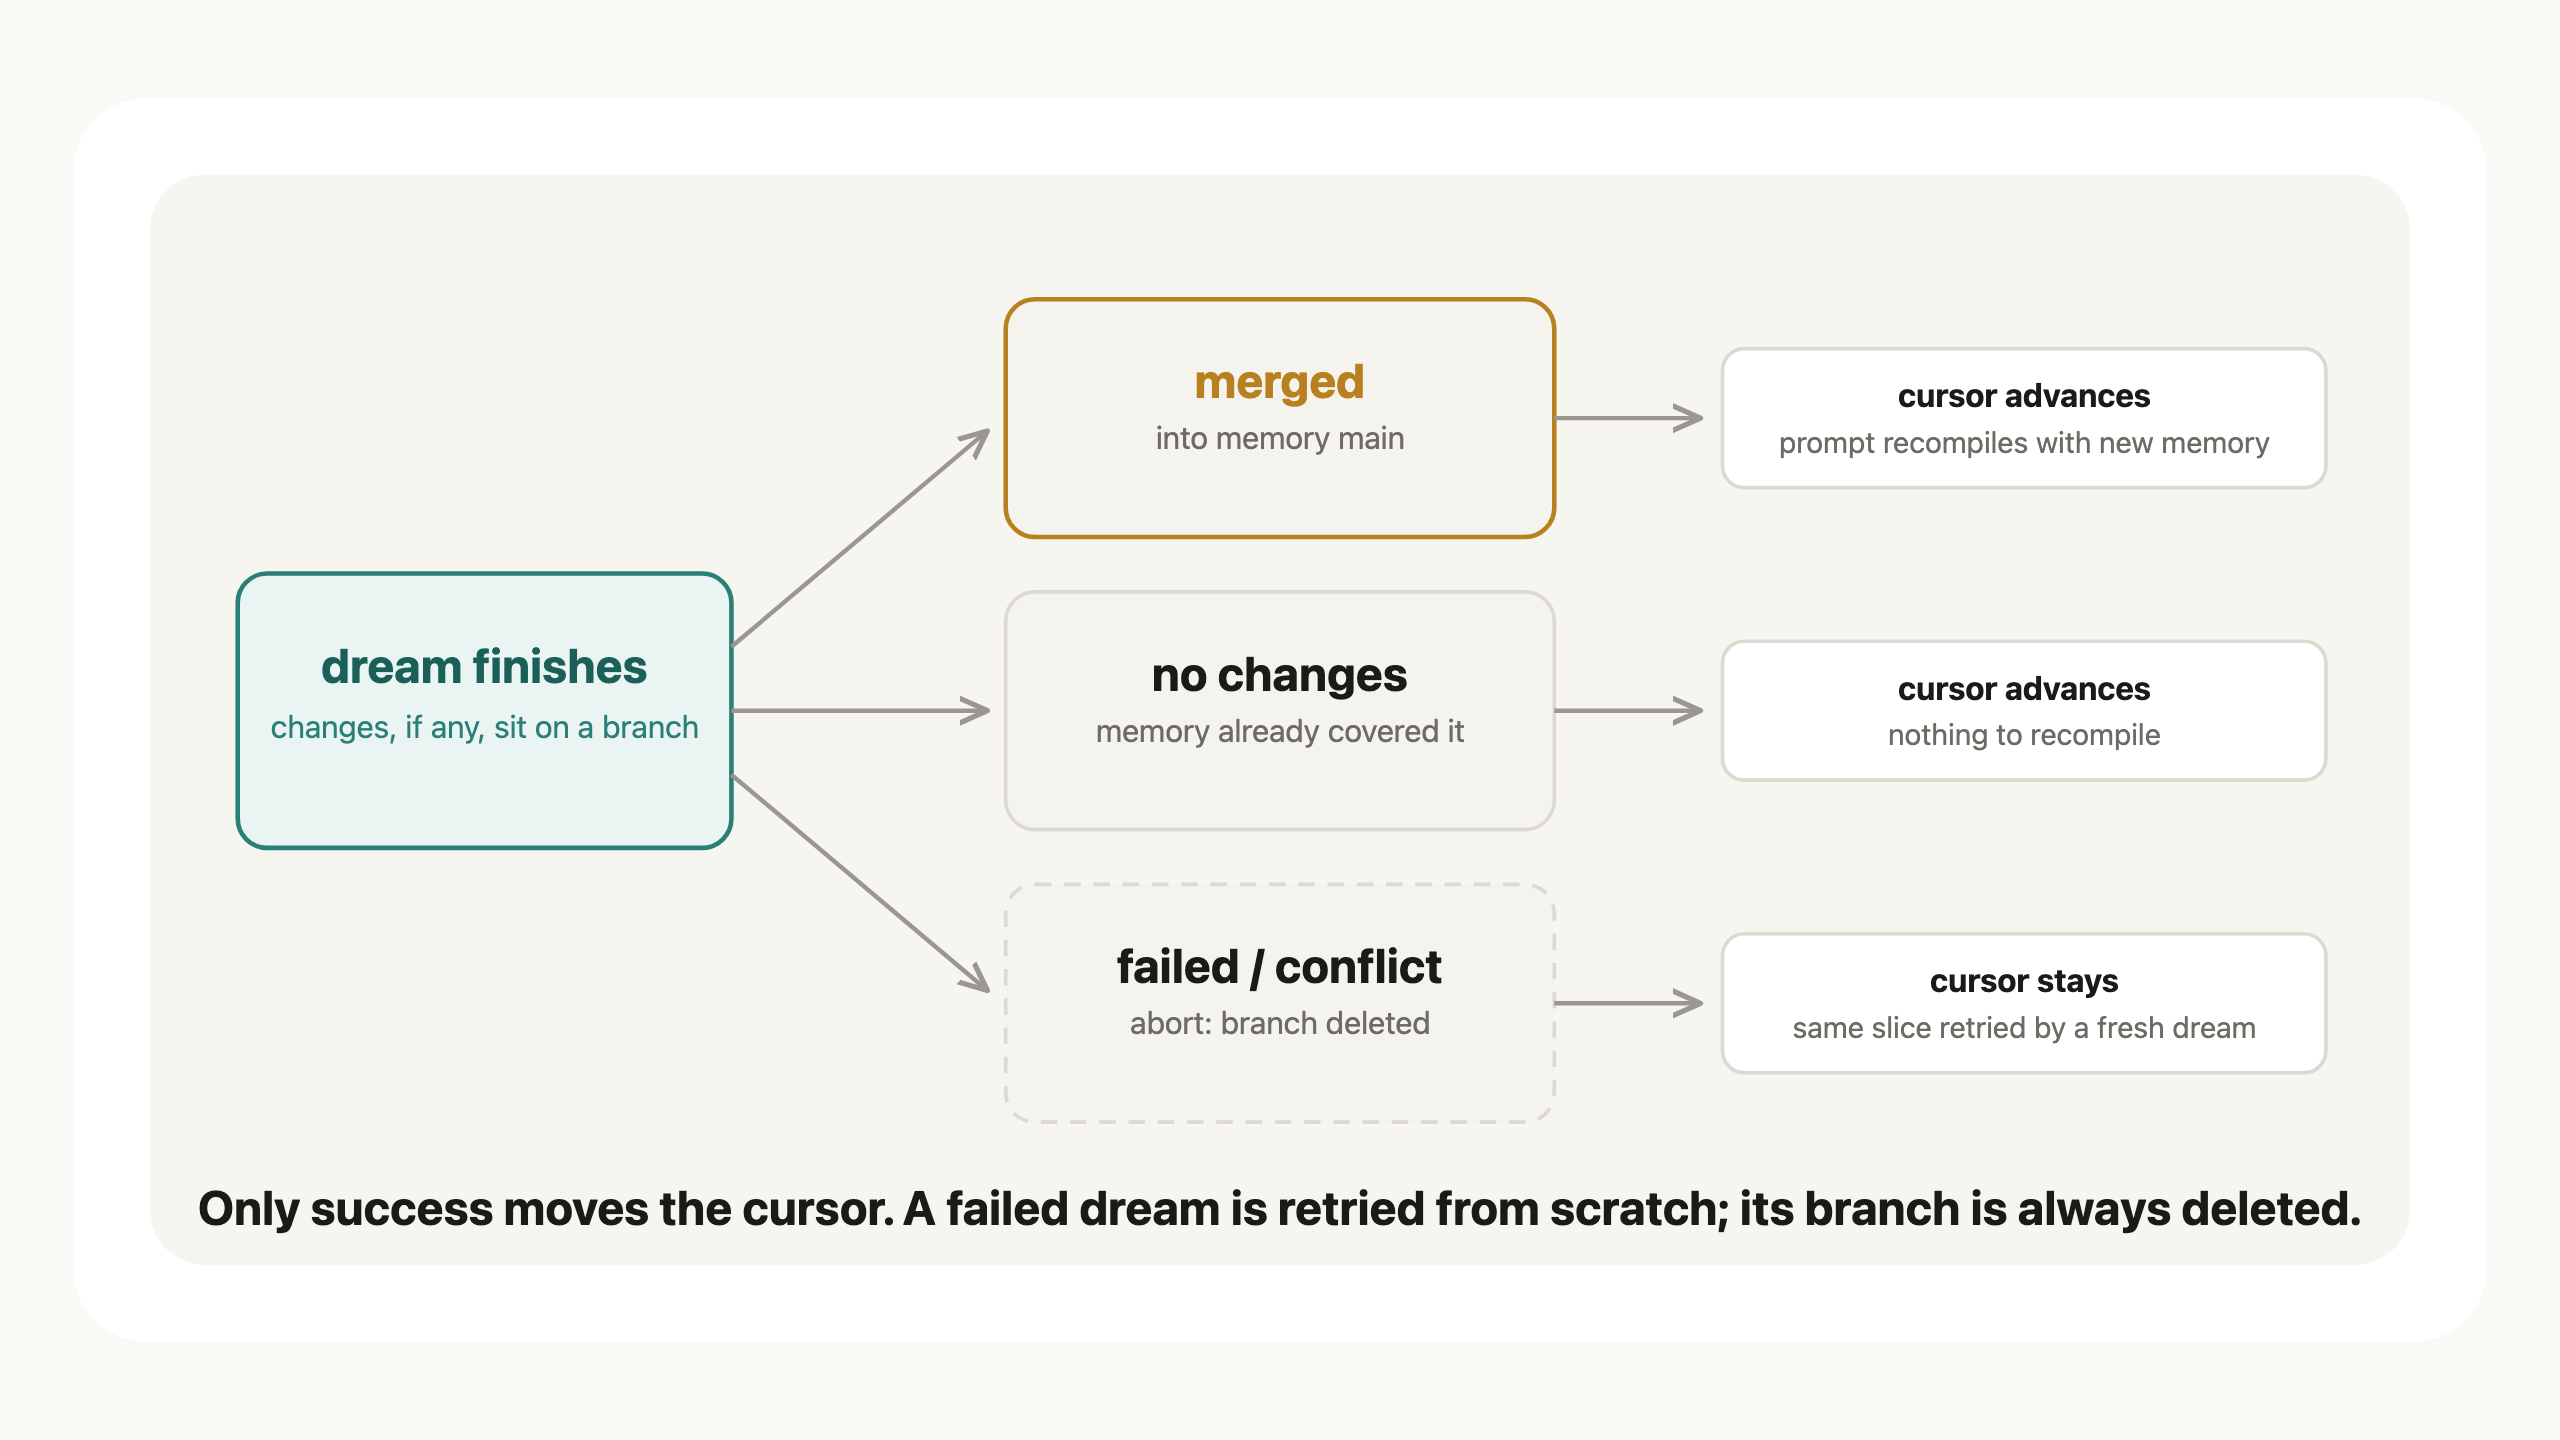
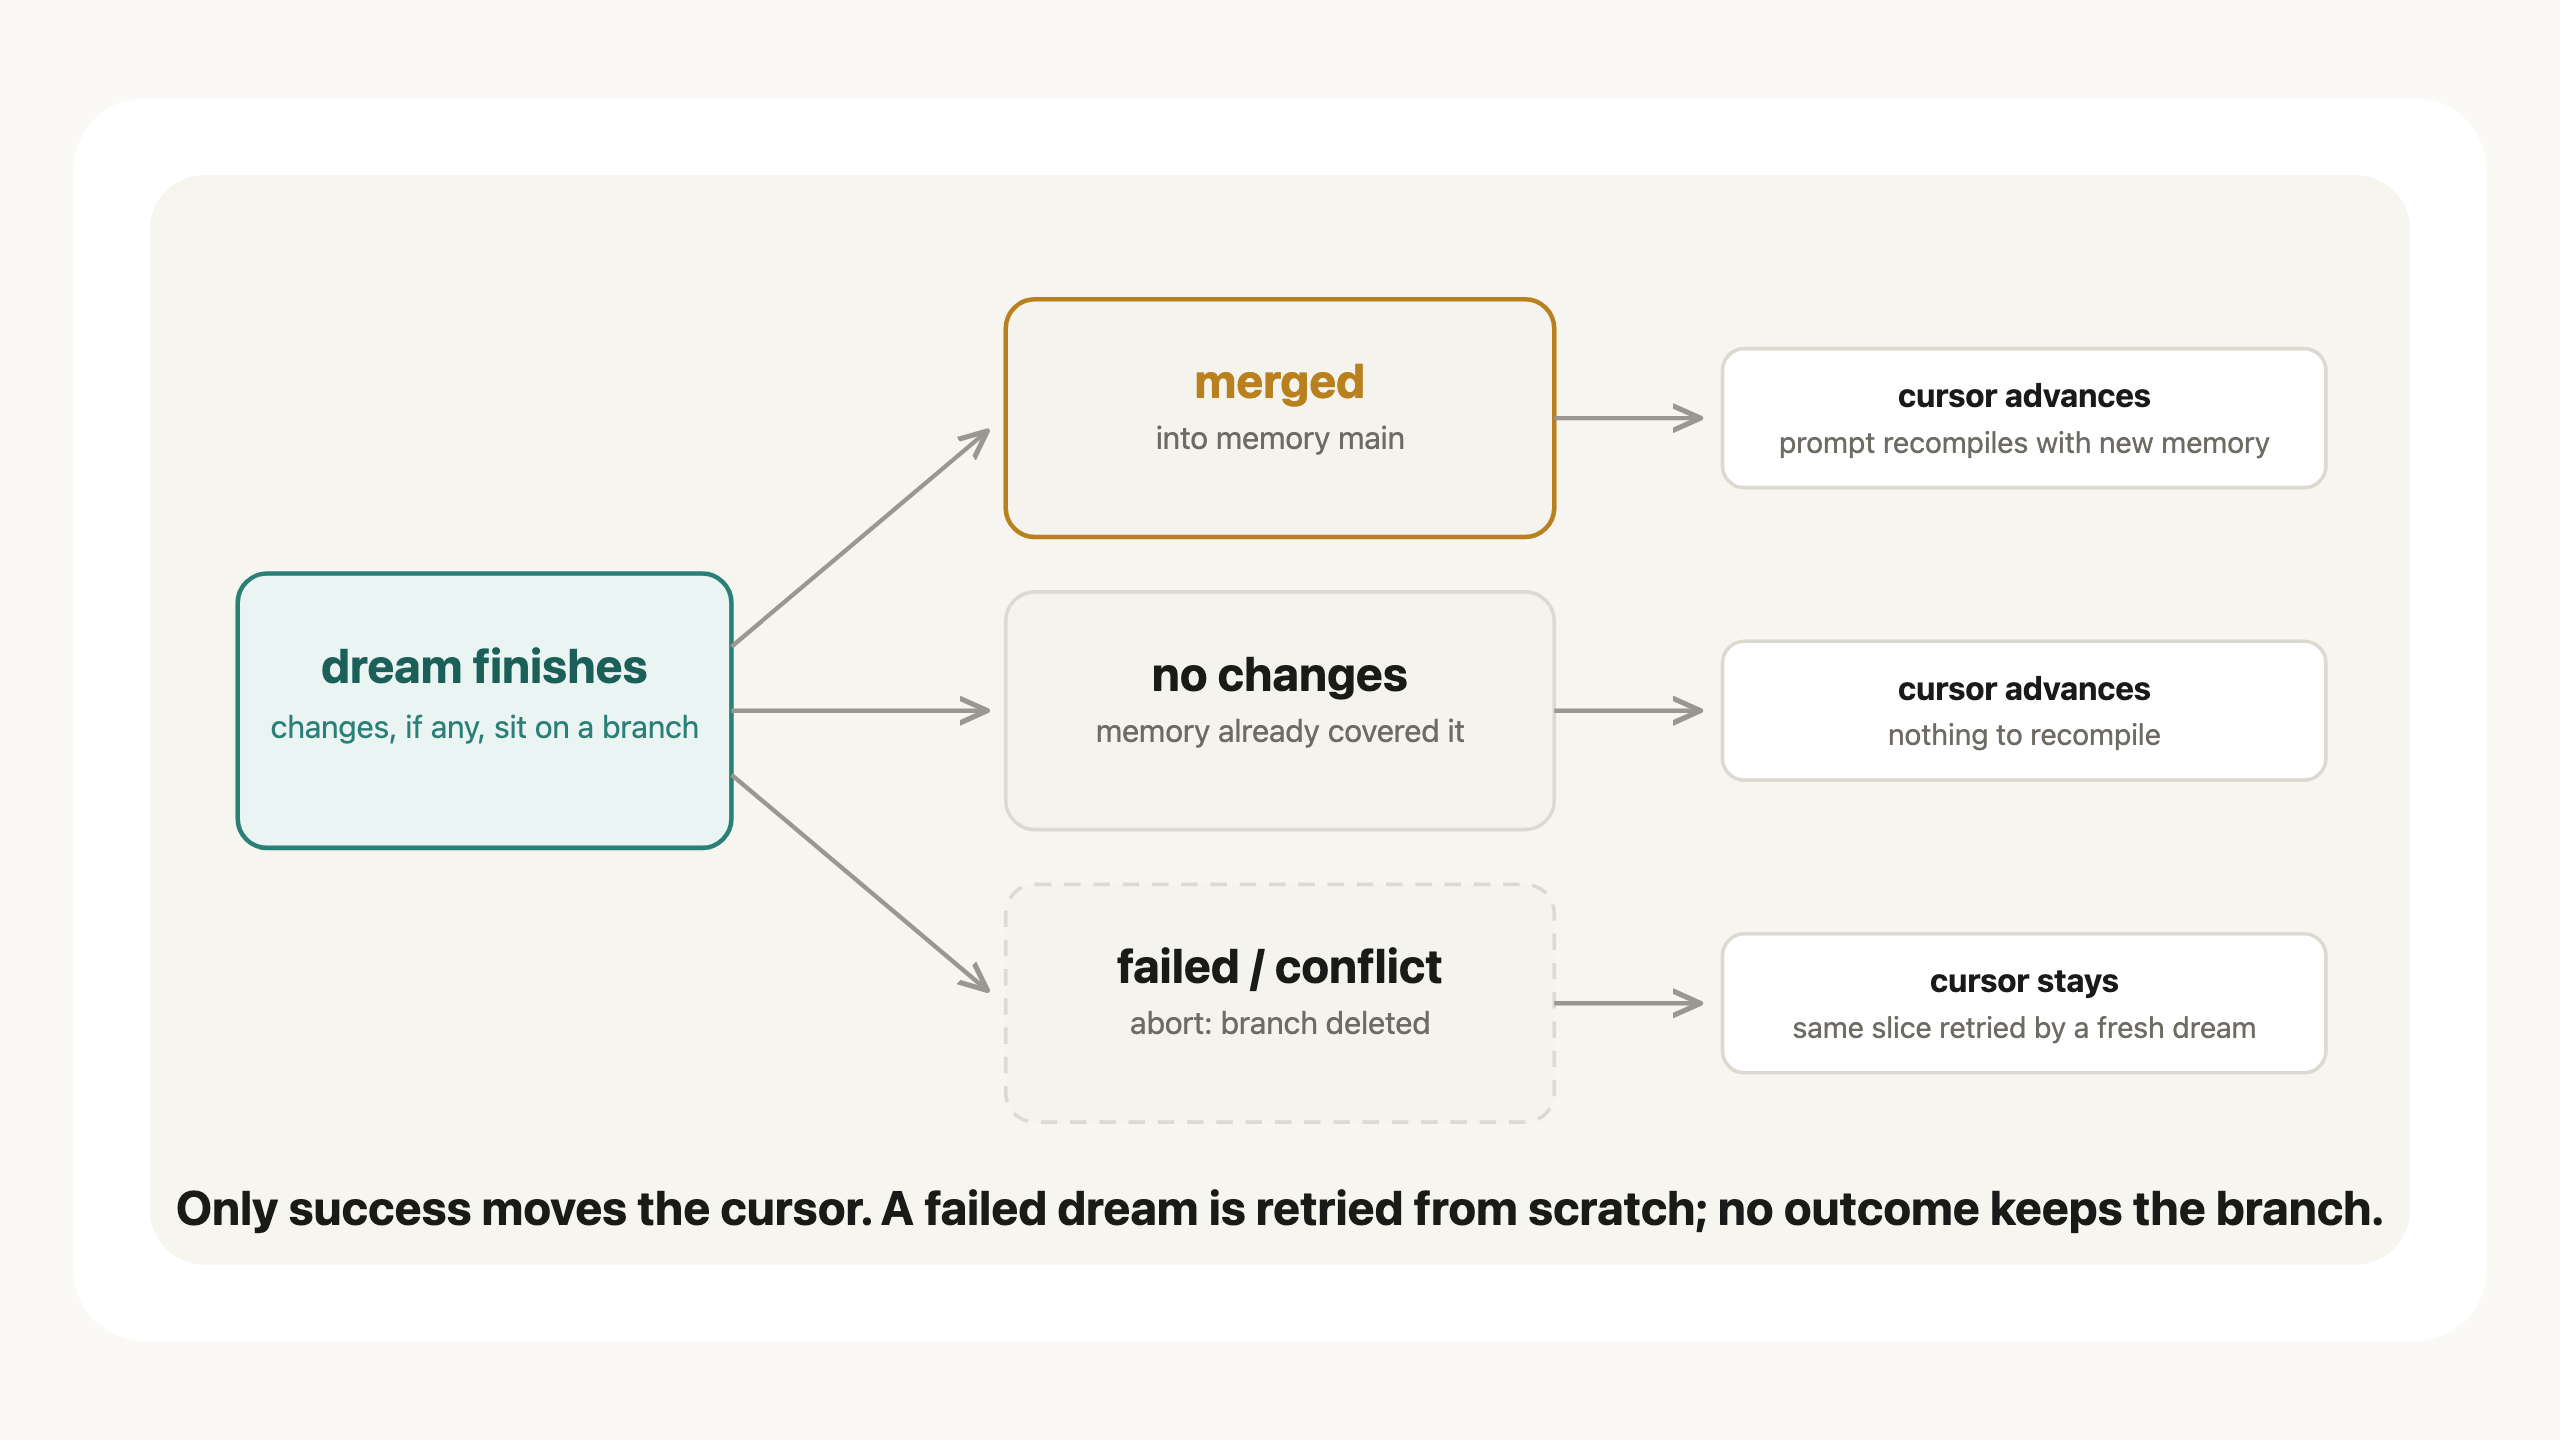
Scope D3 takeaway to outcomes: no outcome keeps the branch

Changed region(s): [[0.0625, 0.8125, 0.9375, 0.875]]

diff --git a/content/blog/letta-code-deepdive.md b/content/blog/letta-code-deepdive.md
@@ -27,7 +27,7 @@ The memory folder holds two kinds: memory blocks and external memory.
 > Memory blocks are editable segments of the system prompt. Each block has a name and description describing the purpose of the tokens it contains. Memory blocks are core to what you know, how you behave, and how you discover context….Reserve them for durable knowledge that shapes who you are and how you act, plus the indexes that let you discover everything else…Prefer compact indexes and behavioral rules over bulk content — move detail to external memory.
 
 ![Memory block captured inside an actual LLM request](/blog/letta/memory-block-screenshot.png)
-*Fig 2: the compiled memory block, byte-for-byte, inside a real request. Not documentation, a capture.*
+*Fig 2: the compiled memory block inside a real request. Not documentation, a capture.*
 
 **External memory.** External memory is part of the memory folder but its content does not get loaded into the system prompt. A file tree of the external memory gets loaded and exposed progressively.  Here is how the instruction looks in Letta Code’s system prompt:
 
@@ -54,7 +54,7 @@ The memory repo is initialized automatically based off a boilerplate, seeded wit
 
 Memory files are in .md format, with frontmatter describing the purpose of the file.
 
-Here is a snippet from my agent's `system/human.md`, written by the agent in-band over several conversations:
+Here is a snippet from my agent's `system/human.md`, written by the agent in-band over several made-up conversations:
 
 ```markdown
 ---
